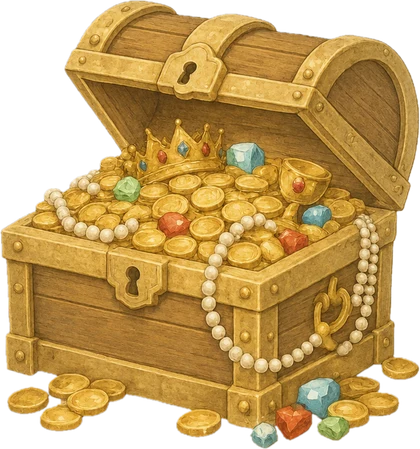
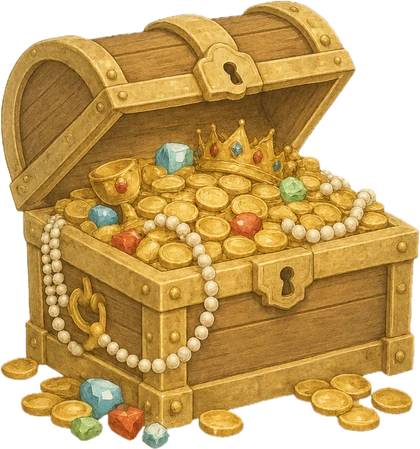
feat: 열린 보물상자 원화 v2로 교체 (#139)
* fix: 모험지도 발자국 길 이탈 수정 — v5 원화에서 모래길 중심선 자동 추출로 경로 재보정

- 짧은/긴 지도 PATH를 원화 색 분류 스캔(모래색 픽셀 행별 추적)으로 재추출
- 짧은 지도 17점 → 46점, 긴 지도 21점 → 68점 (S커브·다리 통과 정밀 반영)
- 다리 구간은 목재 데크라 색 추출이 안 되어 수동 보간

Claude-Session: https://claude.ai/code/session_018maNuYqDfFyRSe9uKpZhPR

* feat: 우측 상단 원형 뱃지 버튼 3종 세로 배치 (엄마용-아이전환-아바타)

- 사용자 신규 원화 4종 탑재: 엄마용(엄마 얼굴)·아이전환(남매)·내아바타(초록 실루엣)·성장캐릭터(새싹)
- 엄마용·아이전환 뱃지 그림 v2로 교체
- 내 아바타/성장캐릭터 토글: 좌측 하단 나무 팻말 → 우측 상단 3번째 원형 뱃지(52px)로 이동
- 배경 꾸미기 장착 시 크림 캡슐 분기 제거 (뱃지가 헤더 영역이라 불필요)
- 원본 4장 art-src/ 보관 + README 갱신, vite build 검증

Claude-Session: https://claude.ai/code/session_018maNuYqDfFyRSe9uKpZhPR

* feat: 모험지도 학원 건물 v6 정글 세트 교체 (나무집·돌아치·텐트·티키오두막)

- 사용자 신규 원화 4종 탑재: trim + 높이 220 + 채도 1.08 + webp q86
- 텐트·티키는 원화의 흰 원을 투명 펀칭(중심 flood-fill) — 이모지 뒤배치 방식 유지
- 구멍 중심·지름 실측(투명 블롭 스캔)으로 cx/cy/d 갱신, k는 구멍 표시 크기 통일 기준 재계산
- 구 건물 webp 4종 삭제(미참조 확인), 원본은 art-src/ 보관 + README 갱신

Claude-Session: https://claude.ai/code/session_018maNuYqDfFyRSe9uKpZhPR

* polish: 모험 홈 무게중심 미세조정 6종 (사용자 픽셀 단위 가이드)

- 캐릭터·펫 컨테이너 20px 위로 (translateY 6→-14) — 하단 시트 눌림감 해소
- 헤드라인 문구 아래 20px·우측 7px (relative, 레이아웃 불변) + 나침반 이모지 간격 축소
- 우측 뱃지 3번째(아바타 토글) marginTop 2px — 간격 착시 보정
- '곧 부화!' 말풍선 알쪽으로 11px 하강 + 4px 우측 — 알과 한 덩어리로
- 시트 핸들바 아래 여백 14→7px — 날짜바 소폭 상승
- 모험 탭 초록 채움 8% 소프트 (#A5BB60→#ACC06D)

Claude-Session: https://claude.ai/code/session_018maNuYqDfFyRSe9uKpZhPR

* polish: 모험지도 라벨·발자국·진행도 개선 (사용자 가이드 8종)

- 이름표 2줄 통일: 1줄 학원명 / 2줄 🕘 시간(진하게) — 전 라벨 동일 규칙
[…]

diff --git a/art-src/README.md b/art-src/README.md
@@ -54,7 +54,8 @@ ChatGPT로 생성한 **가공 전 원본 이미지**를 보관한다. 배포(dis
 | journal-card-v2-src.png | 모험일지 초록 노트 원화 v2 (라벨 글자 포함, 구) | (교체됨) |
 | journal-card-v3-src.png | 모험일지 초록 노트 원화 v3 (구) | (교체됨) |
 | journal-card-v4-src.png | 모험일지 초록 노트 원화 v4 (장식 정리판, 모서리 검정→투명 펀칭 탑재) | journal-card.webp |
-| chest-open.png | 열린 보물상자 원화 (도착 시 지도의 닫힌 상자 위에 덮어 그림) | chest-open.webp |
+| chest-open.png | 열린 보물상자 원화 v1 (구) | (교체됨) |
+| chest-open-v2.png | 열린 보물상자 원화 v2 (도착 시 지도의 닫힌 상자 위에 덮어 그림) | chest-open.webp |
 | coin-front.png | 금화 원화 정면 (상자 도착 연출, 뒤집히며 튀어오름) | coin-front.webp |
 | coin-tilt.png | 금화 원화 반측면 (상자 도착 연출, 구르듯 회전) | coin-tilt.webp |
 | map-walkers/{pink,apricot,green,purple,blue}-{boy,girl}.png | 지도 위를 걷는 탐험가 10종 (5테마×성별, 이모지 대체) | map-char/*.webp |
